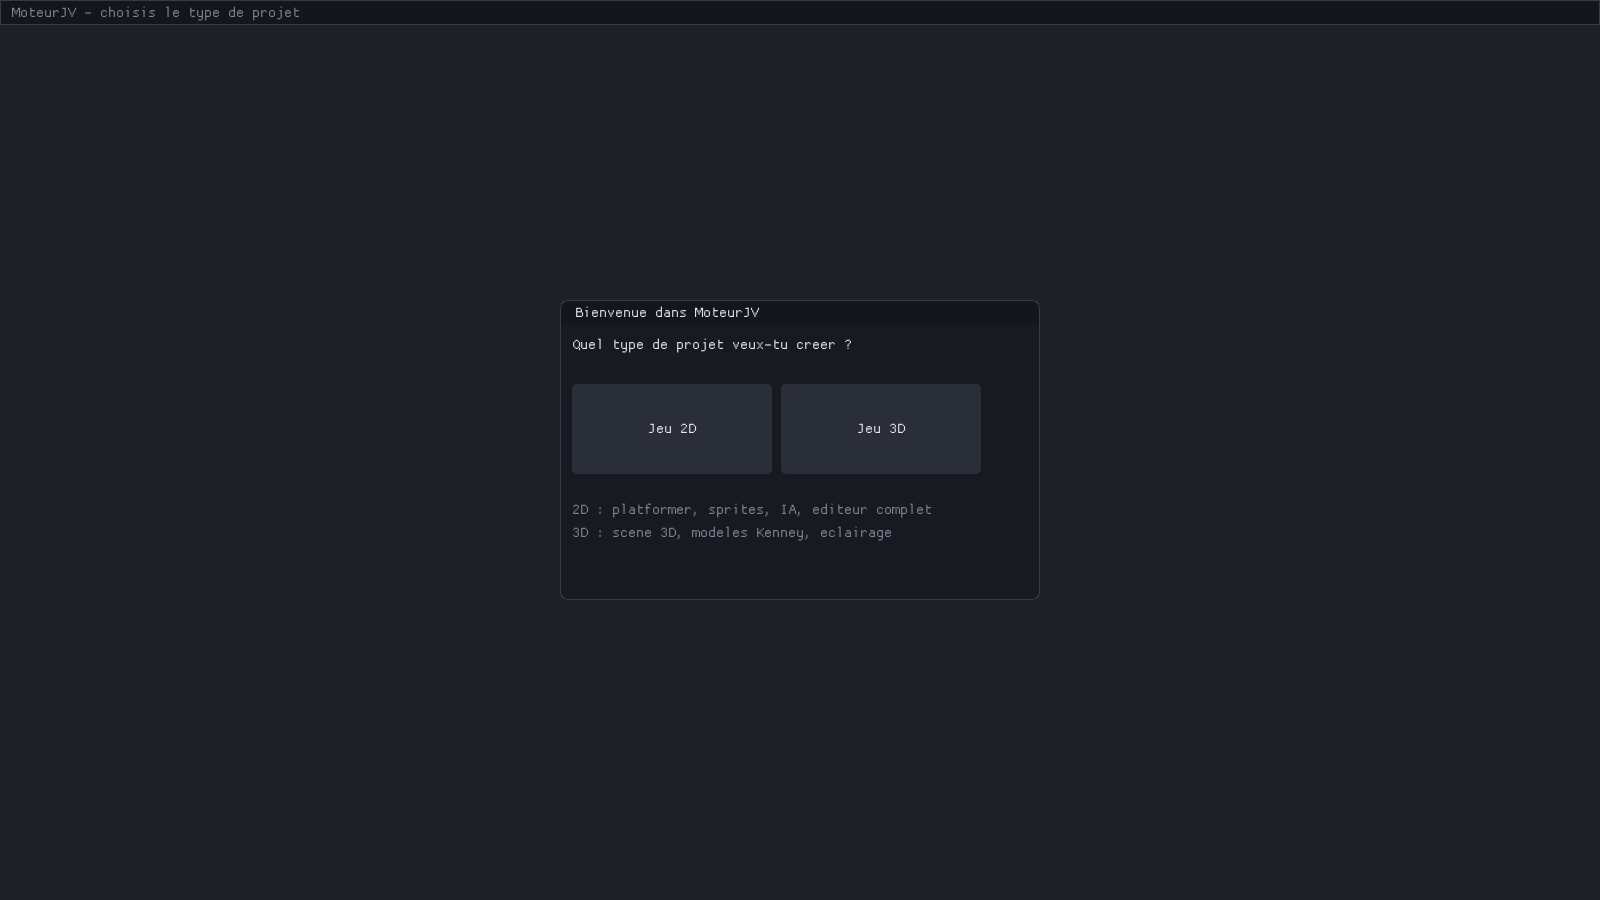
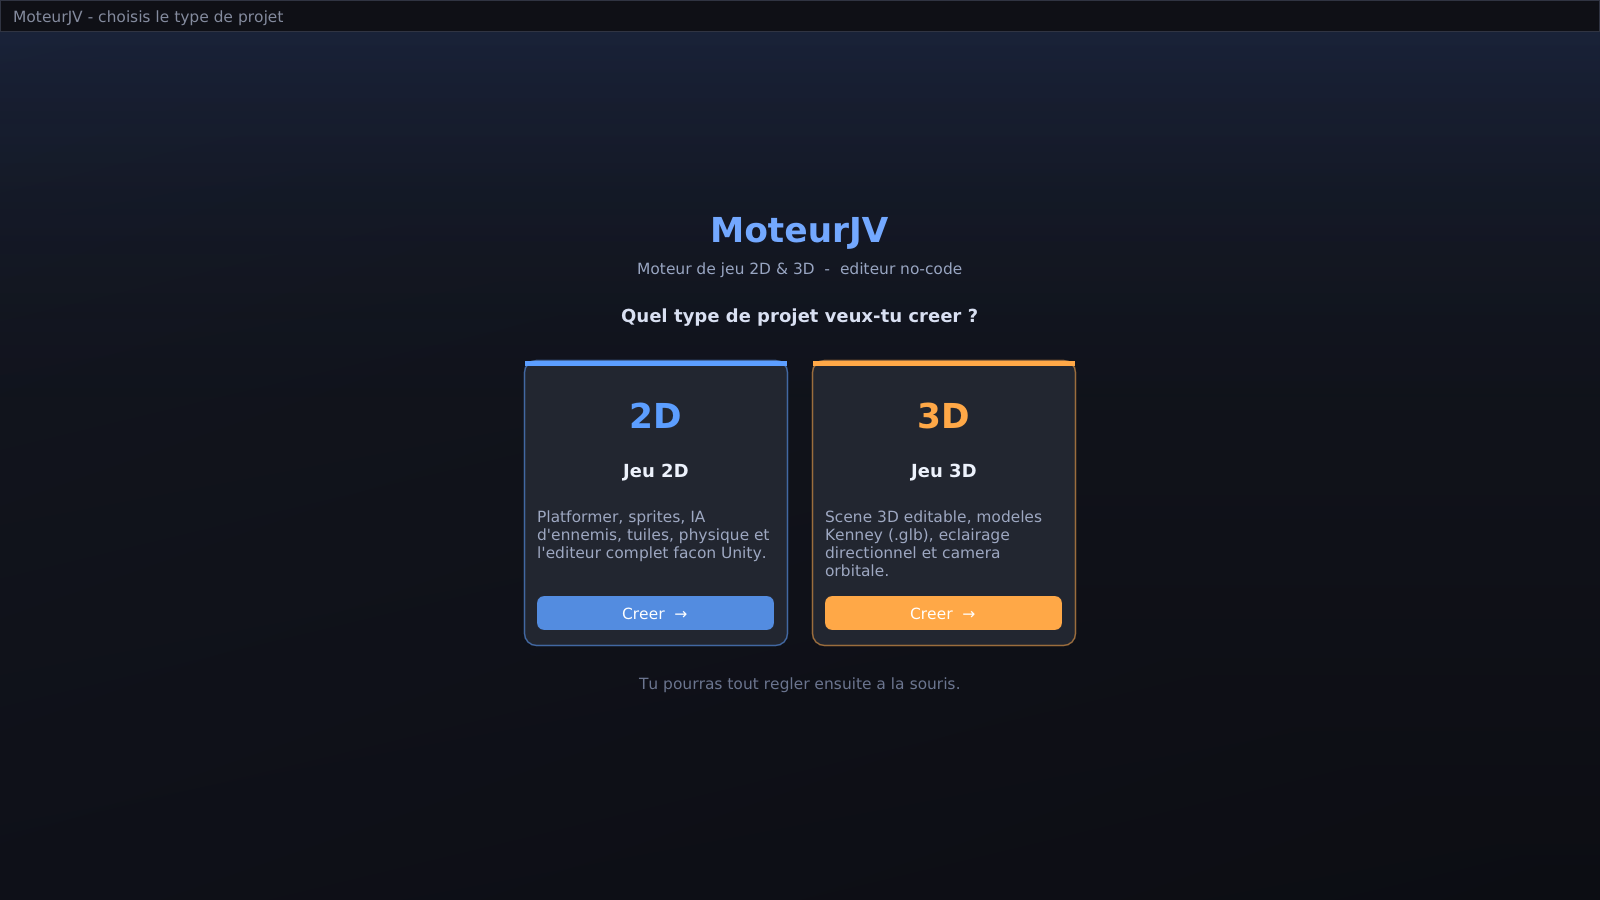
Editeur : refonte esthetique (typographie TTF, theme, accueil, viewport)
- Polices TTF anti-aliasees (DejaVu, 3 tailles : texte/titres/gros titre)
  au lieu de la police bitmap par defaut -> typographie nette et lisible
- Palette "charbon + azur" raffinee : fonds profonds, panneaux contrastes,
  accent vif, onglets/scrollbars/tables retouches, coins plus arrondis
- Ecran d'accueil repense : fond en degrade, grand titre colore, deux
  cartes 2D/3D stylees (lisere colore, badge, description, bouton Creer)
- Viewport 2D et 3D : ciel en degrade vertical au lieu d'un aplat
- MJV_MODE=2d|3d : demarre directement dans un mode (demos/captures)
- Captures docs/ regenerees (accueil, editeur 2D, editeur 3D)

diff --git a/examples/05_editor/main.cpp b/examples/05_editor/main.cpp
@@ -184,11 +184,20 @@ private:
     bool m_eraseMode = false;
     std::string m_paintTile = std::string(MJV_ASSET_DIR) + "/tile.png";
 
+    // Polices TTF (typographie soignée) : texte courant, sous-titres, gros titre.
+    ImFont* m_fontText = nullptr;
+    ImFont* m_fontH    = nullptr;
+    ImFont* m_fontBig  = nullptr;
+
     void onStart() override {
         SetExitKey(KEY_NULL); // Echap sert au menu pause, pas à fermer
         std::srand(1234);
-        rlImGuiSetup(true);
+        // Init ImGui "à la main" pour injecter nos polices TTF avant la
+        // construction de l'atlas (rlImGuiSetup = Begin + theme + End).
+        rlImGuiBeginInitImGui();
         ImGui::GetIO().ConfigFlags |= ImGuiConfigFlags_DockingEnable;
+        loadFonts();
+        rlImGuiEndInitImGui();
         applyDarkTheme();
         m_target = LoadRenderTexture(kWorldW, kWorldH);
         const std::string dir = std::string(MJV_ASSET_DIR) + "/";
@@ -206,53 +215,101 @@ private:
             m_levelNum = 2; buildLevel2(); saveLevel(); // niveau 2
             m_levelNum = 1; loadLevel(1);
         }
+        // Démarrage direct dans un mode (pratique pour les démos/captures).
+        if (const char* m = std::getenv("MJV_MODE")) {
+            if (std::string(m) == "2d") m_mode = Mode2D;
+            else if (std::string(m) == "3d") { m_mode = Mode3D; init3DDefault(); }
+        }
+    }
+
+    // --------------------------------------------------------------- polices
+    // Charge des polices TTF anti-aliasées (3 tailles) avec les glyphes latins
+    // + quelques symboles (flèches, puces, étoiles…) utilisés dans l'UI.
+    void loadFonts() {
+        ImGuiIO& io = ImGui::GetIO();
+        const std::string dir = std::string(MJV_FONT_DIR) + "/";
+        const std::string reg = dir + "DejaVuSans.ttf";
+        const std::string bld = dir + "DejaVuSans-Bold.ttf";
+
+        // Plage de glyphes : latin + symboles d'interface.
+        static ImVector<ImWchar> ranges;
+        ImFontGlyphRangesBuilder b;
+        b.AddRanges(io.Fonts->GetGlyphRangesDefault());
+        b.AddText(u8"▶■◆●★✚✦✕↶↷⏵⏹⚙←→↑↓✓✻•»«…");
+        b.BuildRanges(&ranges);
+
+        ImFontConfig cfg;
+        cfg.OversampleH = 3; cfg.OversampleV = 2; cfg.PixelSnapH = false;
+
+        if (FileExists(reg.c_str())) {
+            m_fontText = io.Fonts->AddFontFromFileTTF(reg.c_str(), 18.0f, &cfg, ranges.Data);
+            m_fontH    = io.Fonts->AddFontFromFileTTF(bld.c_str(), 21.0f, &cfg, ranges.Data);
+            m_fontBig  = io.Fonts->AddFontFromFileTTF(bld.c_str(), 40.0f, &cfg, ranges.Data);
+            io.FontDefault = m_fontText;
+        }
+        // Si les .ttf manquent, ImGui retombe sur sa police par défaut.
     }
 
     // ----------------------------------------------------------------- thème
     void applyDarkTheme() {
         ImGui::StyleColorsDark();
         ImGuiIO& io = ImGui::GetIO();
-        io.FontGlobalScale = 1.18f; // interface un peu plus grande/lisible
+        io.FontGlobalScale = m_fontText ? 1.0f : 1.18f; // TTF déjà à la bonne taille
 
         ImGuiStyle& s = ImGui::GetStyle();
-        s.WindowRounding = 7.0f; s.ChildRounding = 7.0f; s.PopupRounding = 7.0f;
-        s.FrameRounding = 5.0f; s.GrabRounding = 5.0f; s.TabRounding = 6.0f;
-        s.ScrollbarRounding = 9.0f;
-        s.WindowPadding = ImVec2(12, 12); s.FramePadding = ImVec2(9, 5);
-        s.ItemSpacing = ImVec2(9, 8); s.ItemInnerSpacing = ImVec2(7, 5);
+        s.WindowRounding = 9.0f; s.ChildRounding = 8.0f; s.PopupRounding = 8.0f;
+        s.FrameRounding = 7.0f; s.GrabRounding = 7.0f; s.TabRounding = 8.0f;
+        s.ScrollbarRounding = 10.0f;
+        s.WindowPadding = ImVec2(13, 13); s.FramePadding = ImVec2(11, 7);
+        s.ItemSpacing = ImVec2(10, 9); s.ItemInnerSpacing = ImVec2(8, 6);
+        s.CellPadding = ImVec2(8, 5);
         s.WindowBorderSize = 1.0f; s.FrameBorderSize = 0.0f; s.PopupBorderSize = 1.0f;
-        s.ScrollbarSize = 13.0f; s.GrabMinSize = 11.0f;
-        s.WindowTitleAlign = ImVec2(0.02f, 0.5f);
+        s.ChildBorderSize = 1.0f; s.TabBorderSize = 0.0f;
+        s.ScrollbarSize = 14.0f; s.GrabMinSize = 12.0f;
+        s.WindowTitleAlign = ImVec2(0.5f, 0.5f);
         s.WindowMenuButtonPosition = ImGuiDir_None;
+        s.SeparatorTextBorderSize = 2.0f; s.SeparatorTextPadding = ImVec2(18, 6);
+        s.DockingSeparatorSize = 2.0f;
 
         auto rgb = [](int r, int g, int b, float a = 1.0f) { return ImVec4(r / 255.0f, g / 255.0f, b / 255.0f, a); };
-        const ImVec4 base   = rgb(24, 26, 33);
-        const ImVec4 panel  = rgb(33, 36, 45);
-        const ImVec4 panel2 = rgb(42, 46, 57);
-        const ImVec4 accent = rgb(78, 154, 241);
-        const ImVec4 accentH= rgb(108, 176, 255);
-        const ImVec4 text   = rgb(226, 229, 238);
-        const ImVec4 textD  = rgb(126, 132, 148);
-        const ImVec4 border = rgb(54, 58, 72);
+        // Palette "charbon + azur" : fond profond, panneaux contrastés, accent vif.
+        const ImVec4 base    = rgb(22, 24, 31);   // fond des fenêtres
+        const ImVec4 deep    = rgb(15, 16, 22);   // barres titre / menu
+        const ImVec4 panel   = rgb(32, 35, 44);   // champs, boutons
+        const ImVec4 panel2  = rgb(44, 48, 60);   // survol
+        const ImVec4 panel3  = rgb(56, 61, 76);   // actif
+        const ImVec4 accent  = rgb(80, 150, 255); // azur
+        const ImVec4 accentH = rgb(120, 178, 255);
+        const ImVec4 accentS = rgb(80, 150, 255, 0.22f); // sélection translucide
+        const ImVec4 text    = rgb(228, 232, 242);
+        const ImVec4 textD   = rgb(132, 139, 158);
+        const ImVec4 border  = rgb(48, 52, 66);
+        const ImVec4 gold    = rgb(255, 198, 86);
 
         ImVec4* c = s.Colors;
         c[ImGuiCol_Text] = text;             c[ImGuiCol_TextDisabled] = textD;
-        c[ImGuiCol_WindowBg] = base;         c[ImGuiCol_ChildBg] = base;
-        c[ImGuiCol_PopupBg] = rgb(28, 30, 38);
+        c[ImGuiCol_WindowBg] = base;         c[ImGuiCol_ChildBg] = ImVec4(0, 0, 0, 0);
+        c[ImGuiCol_PopupBg] = rgb(26, 28, 36, 0.98f);
         c[ImGuiCol_Border] = border;         c[ImGuiCol_BorderShadow] = ImVec4(0, 0, 0, 0);
-        c[ImGuiCol_MenuBarBg] = rgb(20, 22, 28);
-        c[ImGuiCol_FrameBg] = panel;         c[ImGuiCol_FrameBgHovered] = panel2; c[ImGuiCol_FrameBgActive] = panel2;
-        c[ImGuiCol_TitleBg] = rgb(20, 22, 28); c[ImGuiCol_TitleBgActive] = rgb(20, 22, 28); c[ImGuiCol_TitleBgCollapsed] = rgb(20, 22, 28);
-        c[ImGuiCol_Header] = panel2;         c[ImGuiCol_HeaderHovered] = rgb(56, 62, 78); c[ImGuiCol_HeaderActive] = accent;
-        c[ImGuiCol_Button] = panel2;         c[ImGuiCol_ButtonHovered] = rgb(58, 96, 150); c[ImGuiCol_ButtonActive] = accent;
+        c[ImGuiCol_MenuBarBg] = deep;
+        c[ImGuiCol_FrameBg] = panel;         c[ImGuiCol_FrameBgHovered] = panel2; c[ImGuiCol_FrameBgActive] = panel3;
+        c[ImGuiCol_TitleBg] = deep;          c[ImGuiCol_TitleBgActive] = deep; c[ImGuiCol_TitleBgCollapsed] = deep;
+        c[ImGuiCol_Header] = accentS;        c[ImGuiCol_HeaderHovered] = panel2; c[ImGuiCol_HeaderActive] = ImVec4(accent.x, accent.y, accent.z, 0.40f);
+        c[ImGuiCol_Button] = panel2;         c[ImGuiCol_ButtonHovered] = panel3; c[ImGuiCol_ButtonActive] = accent;
         c[ImGuiCol_CheckMark] = accent;      c[ImGuiCol_SliderGrab] = accent; c[ImGuiCol_SliderGrabActive] = accentH;
         c[ImGuiCol_Separator] = border;      c[ImGuiCol_SeparatorHovered] = accent; c[ImGuiCol_SeparatorActive] = accentH;
-        c[ImGuiCol_Tab] = panel;             c[ImGuiCol_TabHovered] = accentH; c[ImGuiCol_TabActive] = accent;
-        c[ImGuiCol_TabUnfocused] = panel;    c[ImGuiCol_TabUnfocusedActive] = panel2;
-        c[ImGuiCol_ScrollbarBg] = base;      c[ImGuiCol_ScrollbarGrab] = panel2; c[ImGuiCol_ScrollbarGrabHovered] = rgb(70, 76, 94);
+        c[ImGuiCol_Tab] = deep;              c[ImGuiCol_TabHovered] = panel3; c[ImGuiCol_TabActive] = panel;
+        c[ImGuiCol_TabUnfocused] = deep;     c[ImGuiCol_TabUnfocusedActive] = panel;
+        c[ImGuiCol_ScrollbarBg] = ImVec4(0, 0, 0, 0); c[ImGuiCol_ScrollbarGrab] = panel2; c[ImGuiCol_ScrollbarGrabHovered] = panel3; c[ImGuiCol_ScrollbarGrabActive] = accent;
         c[ImGuiCol_ResizeGrip] = panel2;     c[ImGuiCol_ResizeGripHovered] = accent; c[ImGuiCol_ResizeGripActive] = accentH;
-        c[ImGuiCol_DockingPreview] = ImVec4(accent.x, accent.y, accent.z, 0.5f);
-        c[ImGuiCol_DragDropTarget] = rgb(255, 200, 80);
+        c[ImGuiCol_DockingPreview] = ImVec4(accent.x, accent.y, accent.z, 0.45f);
+        c[ImGuiCol_DockingEmptyBg] = deep;
+        c[ImGuiCol_NavHighlight] = accent;
+        c[ImGuiCol_TextSelectedBg] = accentS;
+        c[ImGuiCol_TableHeaderBg] = panel;   c[ImGuiCol_TableRowBgAlt] = rgb(255, 255, 255, 0.02f);
+        c[ImGuiCol_TableBorderLight] = border; c[ImGuiCol_TableBorderStrong] = border;
+        c[ImGuiCol_DragDropTarget] = gold;
+        c[ImGuiCol_PlotHistogram] = accent;  c[ImGuiCol_PlotHistogramHovered] = accentH;
     }
 
     // Couleur d'une entité selon son comportement (pour la hiérarchie).
@@ -912,7 +969,9 @@ private:
 
     void renderSceneToTexture() {
         BeginTextureMode(m_target);
-        Graphics::clear(Colors::SkyBlue);
+        // Ciel en dégradé vertical (plus joli qu'un aplat).
+        ClearBackground(::Color{28, 32, 44, 255});
+        DrawRectangleGradientV(0, 0, kWorldW, kWorldH, ::Color{92, 148, 220, 255}, ::Color{176, 212, 240, 255});
 
         ::Camera2D cam{};
         cam.offset = {kWorldW * 0.5f, kWorldH * 0.5f};
@@ -1112,21 +1171,106 @@ private:
     }
 
     // ============================ MODE 3D ============================
+    // Texte centré horizontalement dans la fenêtre courante.
+    void centerText(const char* t, ImFont* f, ImVec4 col) {
+        if (f) ImGui::PushFont(f);
+        const float w = ImGui::CalcTextSize(t).x;
+        ImGui::SetCursorPosX((ImGui::GetWindowSize().x - w) * 0.5f);
+        ImGui::TextColored(col, "%s", t);
+        if (f) ImGui::PopFont();
+    }
+
+    // Carte cliquable de l'écran d'accueil. Renvoie true si on la choisit.
+    bool startupCard(const char* id, const char* badge, const char* titre,
+                     const char* desc, ImVec4 accent) {
+        const ImVec2 sz(264, 286);
+        ImGui::PushStyleColor(ImGuiCol_ChildBg, ImVec4(0.135f, 0.15f, 0.19f, 1.0f));
+        ImGui::PushStyleColor(ImGuiCol_Border, ImVec4(accent.x, accent.y, accent.z, 0.55f));
+        ImGui::PushStyleVar(ImGuiStyleVar_ChildBorderSize, 1.5f);
+        ImGui::PushStyleVar(ImGuiStyleVar_ChildRounding, 12.0f);
+        ImGui::BeginChild(id, sz, true, ImGuiWindowFlags_NoScrollbar);
+
+        // Liseré coloré en haut de la carte.
+        ImDrawList* dl = ImGui::GetWindowDrawList();
+        const ImVec2 p0 = ImGui::GetWindowPos();
+        dl->AddRectFilled(p0, ImVec2(p0.x + sz.x, p0.y + 6),
+                          ImGui::GetColorU32(accent), 0.0f);
+        dl->AddRectFilled(ImVec2(p0.x, p0.y + 4), ImVec2(p0.x + sz.x, p0.y + 6),
+                          ImGui::GetColorU32(ImVec4(accent.x, accent.y, accent.z, 0.0f)));
+
+        ImGui::Dummy(ImVec2(0, 14));
+        centerText(badge, m_fontBig, accent);
+        ImGui::Dummy(ImVec2(0, 6));
+        centerText(titre, m_fontH, ImVec4(0.93f, 0.95f, 0.99f, 1.0f));
+        ImGui::Dummy(ImVec2(0, 8));
+        ImGui::PushStyleColor(ImGuiCol_Text, ImVec4(0.62f, 0.66f, 0.76f, 1.0f));
+        ImGui::PushTextWrapPos(ImGui::GetCursorPosX() + sz.x - 28);
+        ImGui::TextUnformatted(desc);
+        ImGui::PopTextWrapPos();
+        ImGui::PopStyleColor();
+
+        ImGui::SetCursorPosY(sz.y - 50);
+        ImGui::PushStyleColor(ImGuiCol_Button, ImVec4(accent.x, accent.y, accent.z, 0.85f));
+        ImGui::PushStyleColor(ImGuiCol_ButtonHovered, accent);
+        ImGui::PushStyleColor(ImGuiCol_ButtonActive, ImVec4(accent.x * 0.8f, accent.y * 0.8f, accent.z * 0.8f, 1.0f));
+        ImGui::PushStyleColor(ImGuiCol_Text, ImVec4(1, 1, 1, 1));
+        const bool clicked = ImGui::Button((std::string("Creer  →##") + id).c_str(), ImVec2(-1, 34));
+        ImGui::PopStyleColor(4);
+
+        ImGui::EndChild();
+        ImGui::PopStyleVar(2);
+        ImGui::PopStyleColor(2);
+        return clicked;
+    }
+
     void drawStartup() {
         const ImGuiViewport* vp = ImGui::GetMainViewport();
+        // Fond plein écran en dégradé vertical (derrière la fenêtre d'accueil).
+        ImDrawList* bg = ImGui::GetBackgroundDrawList();
+        bg->AddRectFilledMultiColor(vp->Pos, ImVec2(vp->Pos.x + vp->Size.x, vp->Pos.y + vp->Size.y),
+                                    IM_COL32(20, 23, 32, 255), IM_COL32(20, 23, 32, 255),
+                                    IM_COL32(12, 13, 19, 255), IM_COL32(14, 16, 24, 255));
+        // Halo bleuté discret en haut.
+        bg->AddRectFilledMultiColor(vp->Pos, ImVec2(vp->Pos.x + vp->Size.x, vp->Pos.y + vp->Size.y * 0.55f),
+                                    IM_COL32(60, 110, 220, 38), IM_COL32(60, 110, 220, 38),
+                                    IM_COL32(0, 0, 0, 0), IM_COL32(0, 0, 0, 0));
+
         ImGui::SetNextWindowPos(vp->GetCenter(), ImGuiCond_Always, ImVec2(0.5f, 0.5f));
-        ImGui::SetNextWindowSize(ImVec2(480, 300));
-        ImGui::Begin("Bienvenue dans MoteurJV", nullptr,
-                     ImGuiWindowFlags_NoResize | ImGuiWindowFlags_NoMove | ImGuiWindowFlags_NoCollapse | ImGuiWindowFlags_NoDocking);
-        ImGui::TextWrapped("Quel type de projet veux-tu creer ?");
+        ImGui::SetNextWindowSize(ImVec2(640, 540));
+        ImGui::PushStyleColor(ImGuiCol_WindowBg, ImVec4(0, 0, 0, 0));
+        ImGui::PushStyleColor(ImGuiCol_Border, ImVec4(0, 0, 0, 0));
+        ImGui::Begin("##startup", nullptr,
+                     ImGuiWindowFlags_NoResize | ImGuiWindowFlags_NoMove | ImGuiWindowFlags_NoTitleBar |
+                     ImGuiWindowFlags_NoCollapse | ImGuiWindowFlags_NoDocking | ImGuiWindowFlags_NoScrollbar);
+
+        ImGui::Dummy(ImVec2(0, 8));
+        centerText("MoteurJV", m_fontBig, ImVec4(0.45f, 0.66f, 1.0f, 1.0f));
+        centerText("Moteur de jeu 2D & 3D  -  editeur no-code", m_fontText, ImVec4(0.6f, 0.65f, 0.76f, 1.0f));
+        ImGui::Dummy(ImVec2(0, 10));
+        centerText("Quel type de projet veux-tu creer ?", m_fontH, ImVec4(0.85f, 0.88f, 0.95f, 1.0f));
         ImGui::Dummy(ImVec2(0, 16));
-        if (ImGui::Button("Jeu 2D", ImVec2(200, 90))) m_mode = Mode2D;
-        ImGui::SameLine();
-        if (ImGui::Button("Jeu 3D", ImVec2(200, 90))) { m_mode = Mode3D; init3DDefault(); }
-        ImGui::Dummy(ImVec2(0, 12));
-        ImGui::TextDisabled("2D : platformer, sprites, IA, editeur complet");
-        ImGui::TextDisabled("3D : scene 3D, modeles Kenney, eclairage");
+
+        // Deux cartes centrées.
+        const float cardsW = 264 * 2 + 24;
+        ImGui::SetCursorPosX((ImGui::GetWindowSize().x - cardsW) * 0.5f);
+        ImGui::BeginGroup();
+        if (startupCard("card2d", "2D", "Jeu 2D",
+                        "Platformer, sprites, IA d'ennemis, tuiles, physique et l'editeur complet facon Unity.",
+                        ImVec4(0.36f, 0.62f, 1.0f, 1.0f)))
+            m_mode = Mode2D;
+        ImGui::SameLine(0, 24);
+        if (startupCard("card3d", "3D", "Jeu 3D",
+                        "Scene 3D editable, modeles Kenney (.glb), eclairage directionnel et camera orbitale.",
+                        ImVec4(1.0f, 0.66f, 0.28f, 1.0f))) {
+            m_mode = Mode3D; init3DDefault();
+        }
+        ImGui::EndGroup();
+
+        ImGui::Dummy(ImVec2(0, 10));
+        centerText("Tu pourras tout regler ensuite a la souris.", m_fontText, ImVec4(0.42f, 0.46f, 0.56f, 1.0f));
+
         ImGui::End();
+        ImGui::PopStyleColor(2);
     }
     void init3DDefault() {
         m_objs3d.clear(); m_sel3d = -1;
@@ -1160,7 +1304,9 @@ private:
     }
     void render3DScene() {
         BeginTextureMode(m_target);
-        Graphics::clear(Colors::SkyBlue);
+        // Ciel en dégradé (rendu en 2D, derrière la scène 3D).
+        ClearBackground(::Color{120, 162, 214, 255});
+        DrawRectangleGradientV(0, 0, kWorldW, kWorldH, ::Color{86, 130, 196, 255}, ::Color{178, 206, 232, 255});
         mjv::Camera3D cam;
         cam.target = m_pivot3d;
         cam.position = m_pivot3d + Vec3{std::cos(m_pitch3d) * std::sin(m_yaw3d), std::sin(m_pitch3d), std::cos(m_pitch3d) * std::cos(m_yaw3d)} * m_dist3d;